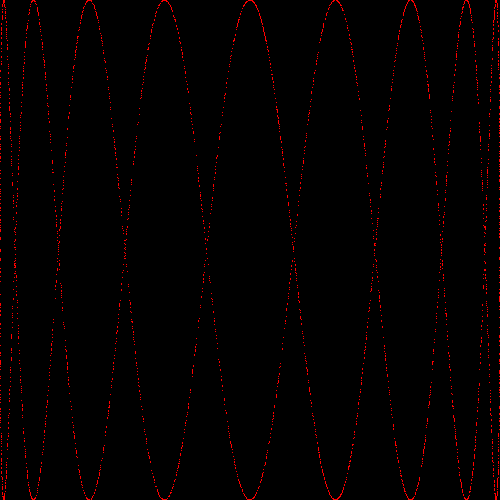
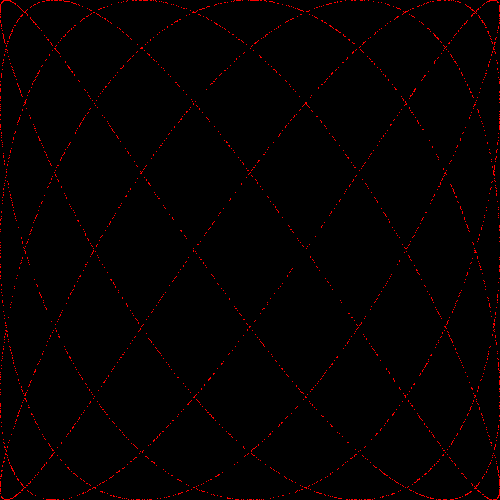
better output

diff --git a/tangent/tangent.py b/tangent/tangent.py
@@ -3,8 +3,8 @@ import time
 import math
 import pygame
 
-x_degrees_p_sec = 0.1
-y_degrees_p_sec = 0.9
+x_degrees_p_sec = 5
+y_degrees_p_sec = 7
 
 x_loc = (250,0)
 y_loc = (250,0)
